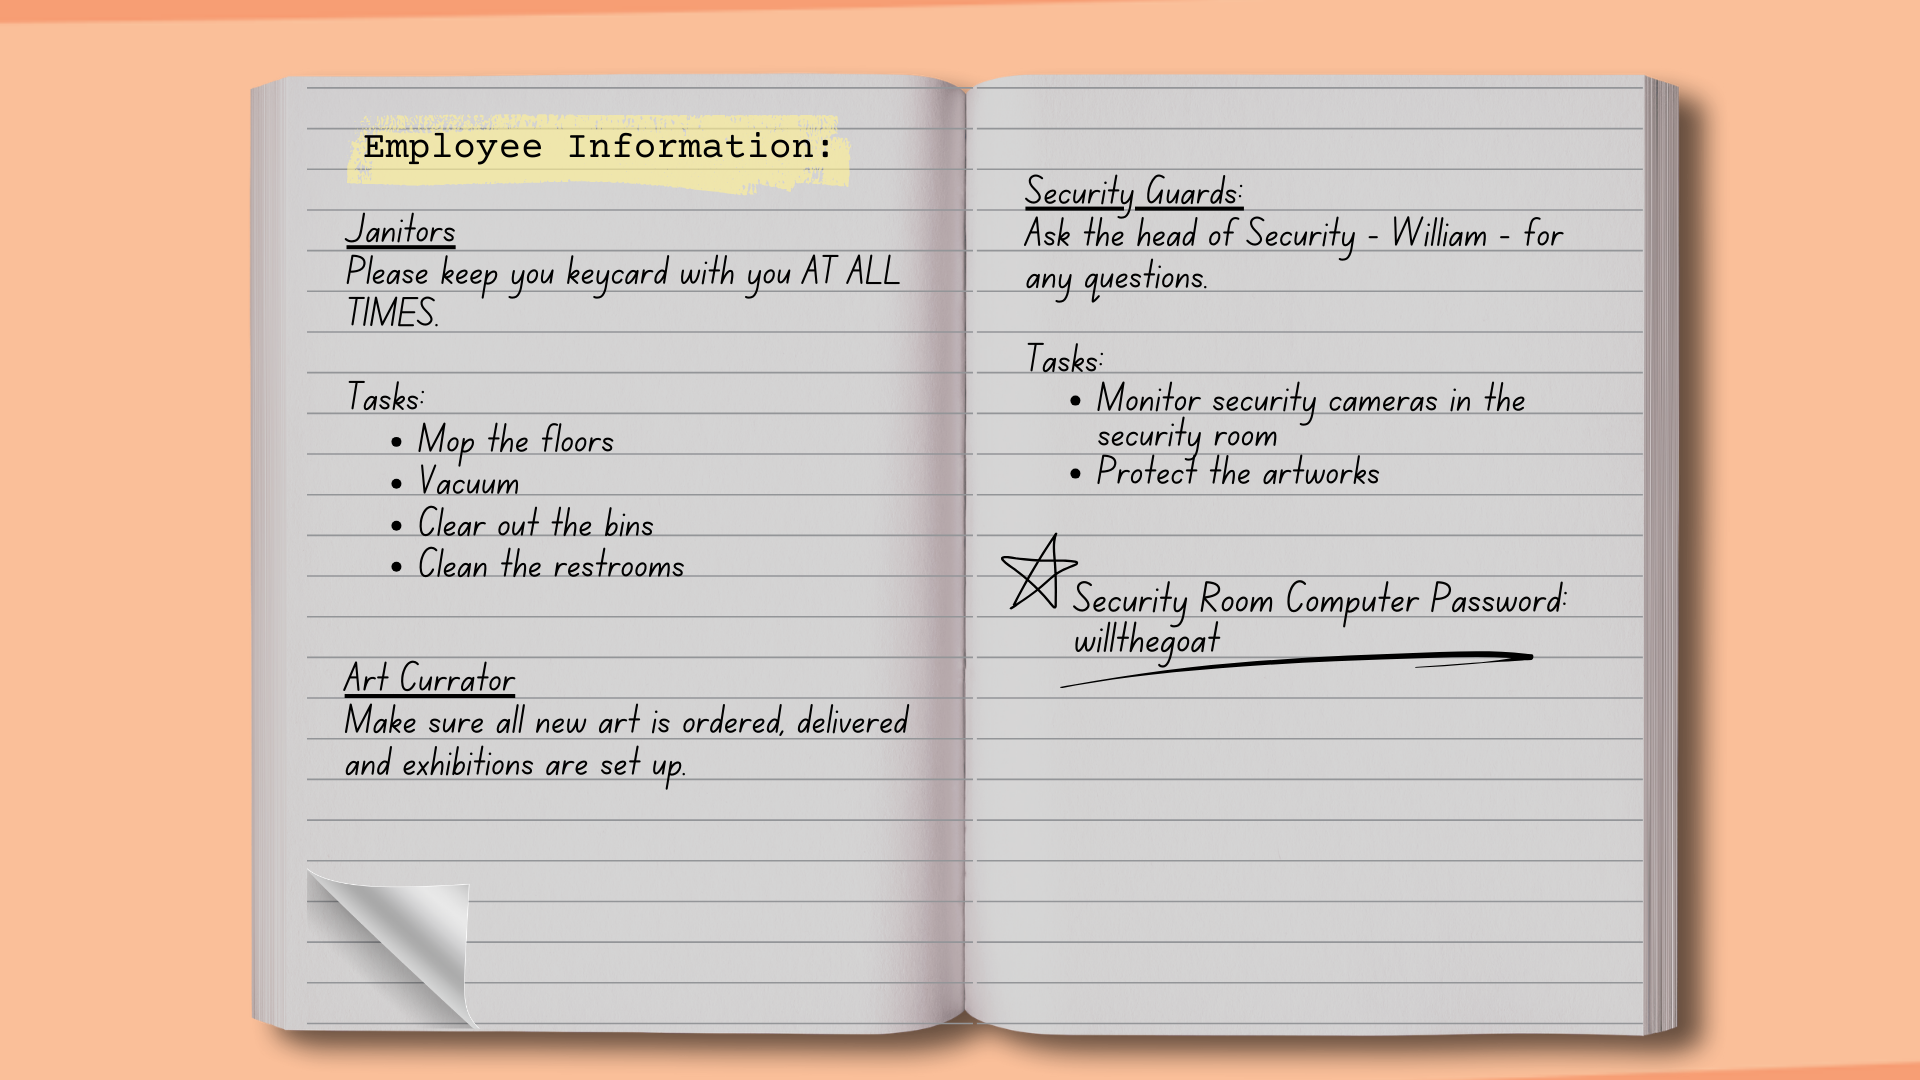
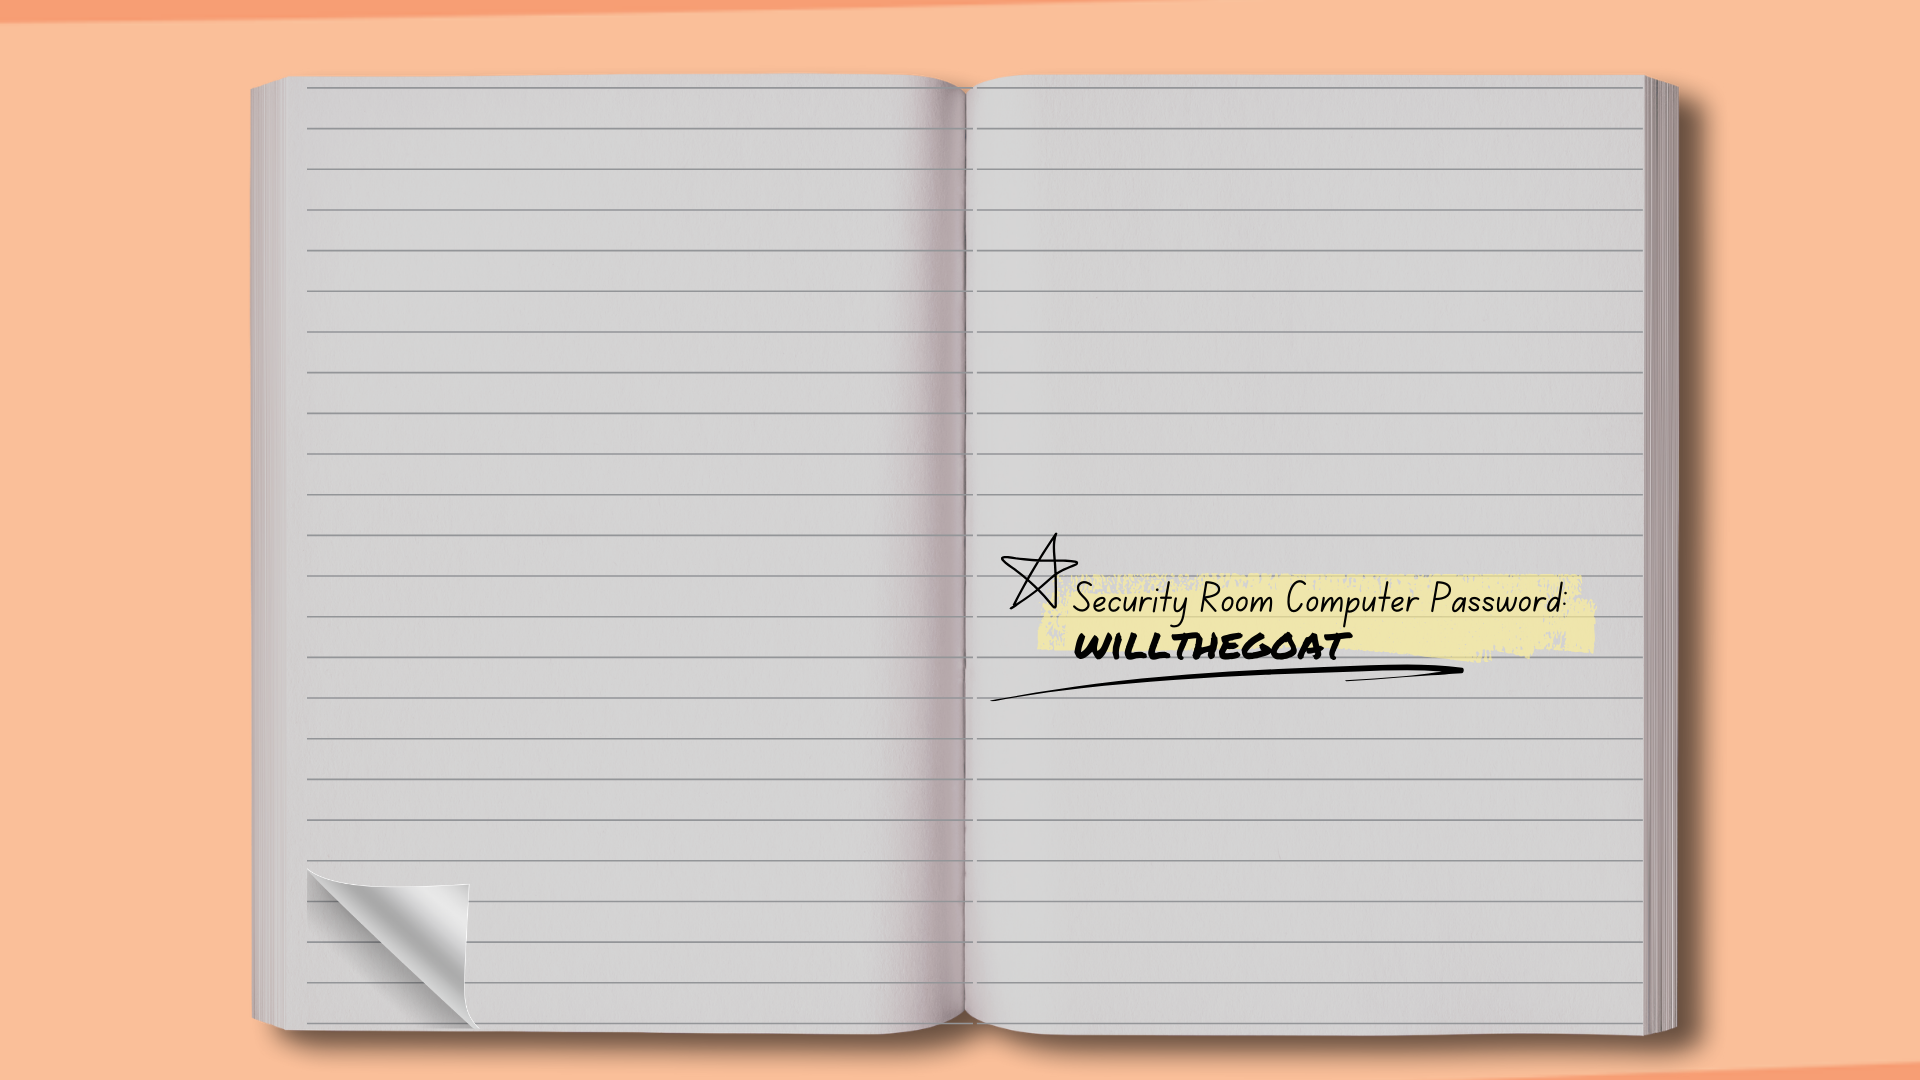
added sticky note to show the password inside the computer room, altered logbook 3 as well

diff --git a/src/main/java/nz/ac/auckland/se206/controllers/ClueController.java b/src/main/java/nz/ac/auckland/se206/controllers/ClueController.java
@@ -5,6 +5,7 @@ import javafx.event.ActionEvent;
 import javafx.fxml.FXML;
 import javafx.scene.control.Button;
 import javafx.scene.control.Label;
+import javafx.scene.image.ImageView;
 import javafx.scene.input.MouseEvent;
 import javafx.scene.shape.Rectangle;
 import nz.ac.auckland.apiproxy.exceptions.ApiProxyException;
@@ -16,6 +17,9 @@ public class ClueController {
   @FXML private Button backButton;
   @FXML private Label mins;
   @FXML private Label secs;
+  @FXML private Rectangle rectHint;
+  @FXML private Rectangle rectBackDrop;
+  @FXML private ImageView passwordHint;
 
   /**
    * Initializes the clue view.
@@ -63,5 +67,15 @@ public class ClueController {
       return;
     }
     App.setRoot("computercluepassword");
+  }
+
+  public void handleComputerStickyNote(MouseEvent event) throws IOException {
+    passwordHint.setVisible(true);
+    rectBackDrop.setVisible(true);
+  }
+
+  public void handleClickBack(MouseEvent event) throws IOException {
+    passwordHint.setVisible(false);
+    rectBackDrop.setVisible(false);
   }
 }
